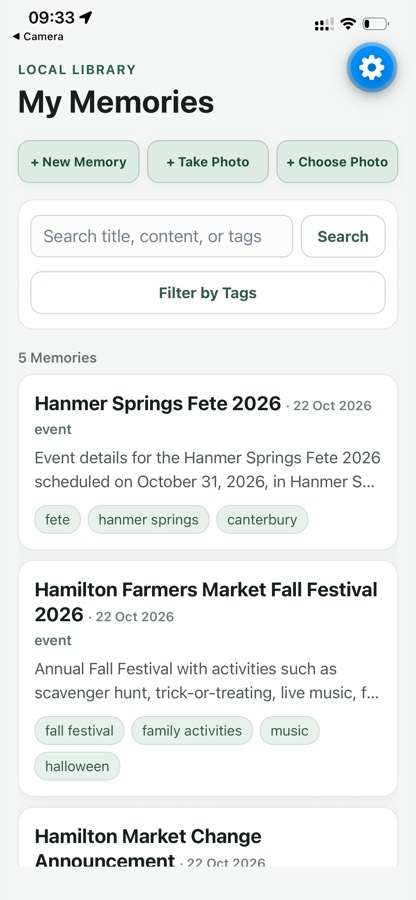
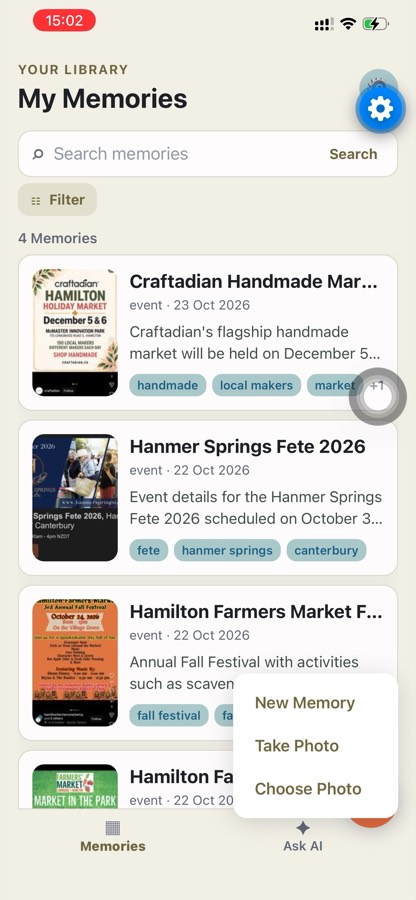
docs: document RAG Q&A and refresh screenshots

diff --git a/README.md b/README.md
@@ -13,37 +13,38 @@ The project currently runs locally with a React Native + Expo mobile app, a Fast
 - Review and confirm titles, dates, amounts, locations, purposes, and other fields
 - Search by keywords and filter by tags
 - Create one-time reminders delivered through Expo local notifications
+- Ask natural-language questions about saved Memories with RAG-based AI Q&A
 - Preserve original sources by default; deletion remains user-controlled
 - Continue with manual editing and saving when AI recognition fails
 
-### Planned AI Q&A
+### AI Q&A with RAG
 
-Future versions are planned to include an AI Q&A feature powered by RAG (Retrieval-Augmented Generation). Users will be able to ask natural-language questions about their saved and confirmed Memories, such as “Which event notices did I save last month?” or “Where is the Craftadian handmade market being held?”. The system will first retrieve relevant content from the user’s own Memories, confirmed text, and structured fields, then generate an answer grounded in those sources.
+The app now supports AI Q&A powered by RAG (Retrieval-Augmented Generation). Users can ask natural-language questions about saved and confirmed Memories, such as “Which event notices did I save last month?” or “Where is the Craftadian handmade market being held?”. The system retrieves relevant confirmed content and generates an answer grounded in the matching Memories.
 
-This feature has not been implemented yet. The current image recognition and keyword search features are not RAG. The planned design principles are:
+The current implementation is intentionally local and single-user. Its design principles are:
 
 - Retrieve only content that the current user is authorized to access
 - Prefer user-confirmed fields and text; never treat an AI draft as a fact
 - Show the Memory or original document sources used for an answer
 - Clearly say when there is not enough evidence instead of guessing or filling gaps
 - Keep original images preserved while allowing vector indexes or retrieval data to be deleted independently
-- Evaluate local vector search, managed retrieval services, and PostgreSQL extensions before selecting the final implementation
+- Keep keyword search available when embedding or answer generation fails
 
 ## Screenshots
 
-These screenshots show the main flow from browsing Memories and reviewing extracted content to setting a reminder and receiving a local notification.
+These screenshots show the current app, including the Memory library, RAG-based AI Q&A, Memory details, and local notifications.
 
 ### Memory list
 
 ![Memory list](docs/screenshots/memory-list.jpg)
 
-### Review extracted AI fields
+### AI Q&A
 
-![Review extracted fields](docs/screenshots/review-fields.jpg)
+![AI Q&A](docs/screenshots/ai-qa.jpg)
 
-### Memory details and one-time reminder
+### Memory details and original source
 
-![Memory detail and reminder](docs/screenshots/memory-detail-reminder.jpg)
+![Memory detail](docs/screenshots/memory-detail.jpg)
 
 ### Local notification
 
@@ -184,9 +185,9 @@ Re-analysis is an explicit user action. Opening a saved Memory does not automati
 - M6: Security, privacy, reliability, and release testing
 - M7: Beta testing and release
 - V2: Cross-device synchronization
-- Future: RAG retrieval and AI Q&A over personal documents
+- RAG retrieval and AI Q&A: available in the local single-user app
 
-V1 does not include RAG, AI Q&A, recurring reminders, automatic email/SMS access, website scraping, multi-user sharing, or professional legal, medical, or financial advice. Natural-language Q&A is planned for a later version and does not imply that a cloud model or vector database dependency exists today.
+V1 does not include recurring reminders, automatic email/SMS access, website scraping, multi-user sharing, or professional legal, medical, or financial advice. RAG and AI Q&A are currently available locally; production multi-user authentication and cloud deployment remain future work.
 
 ## License
 
